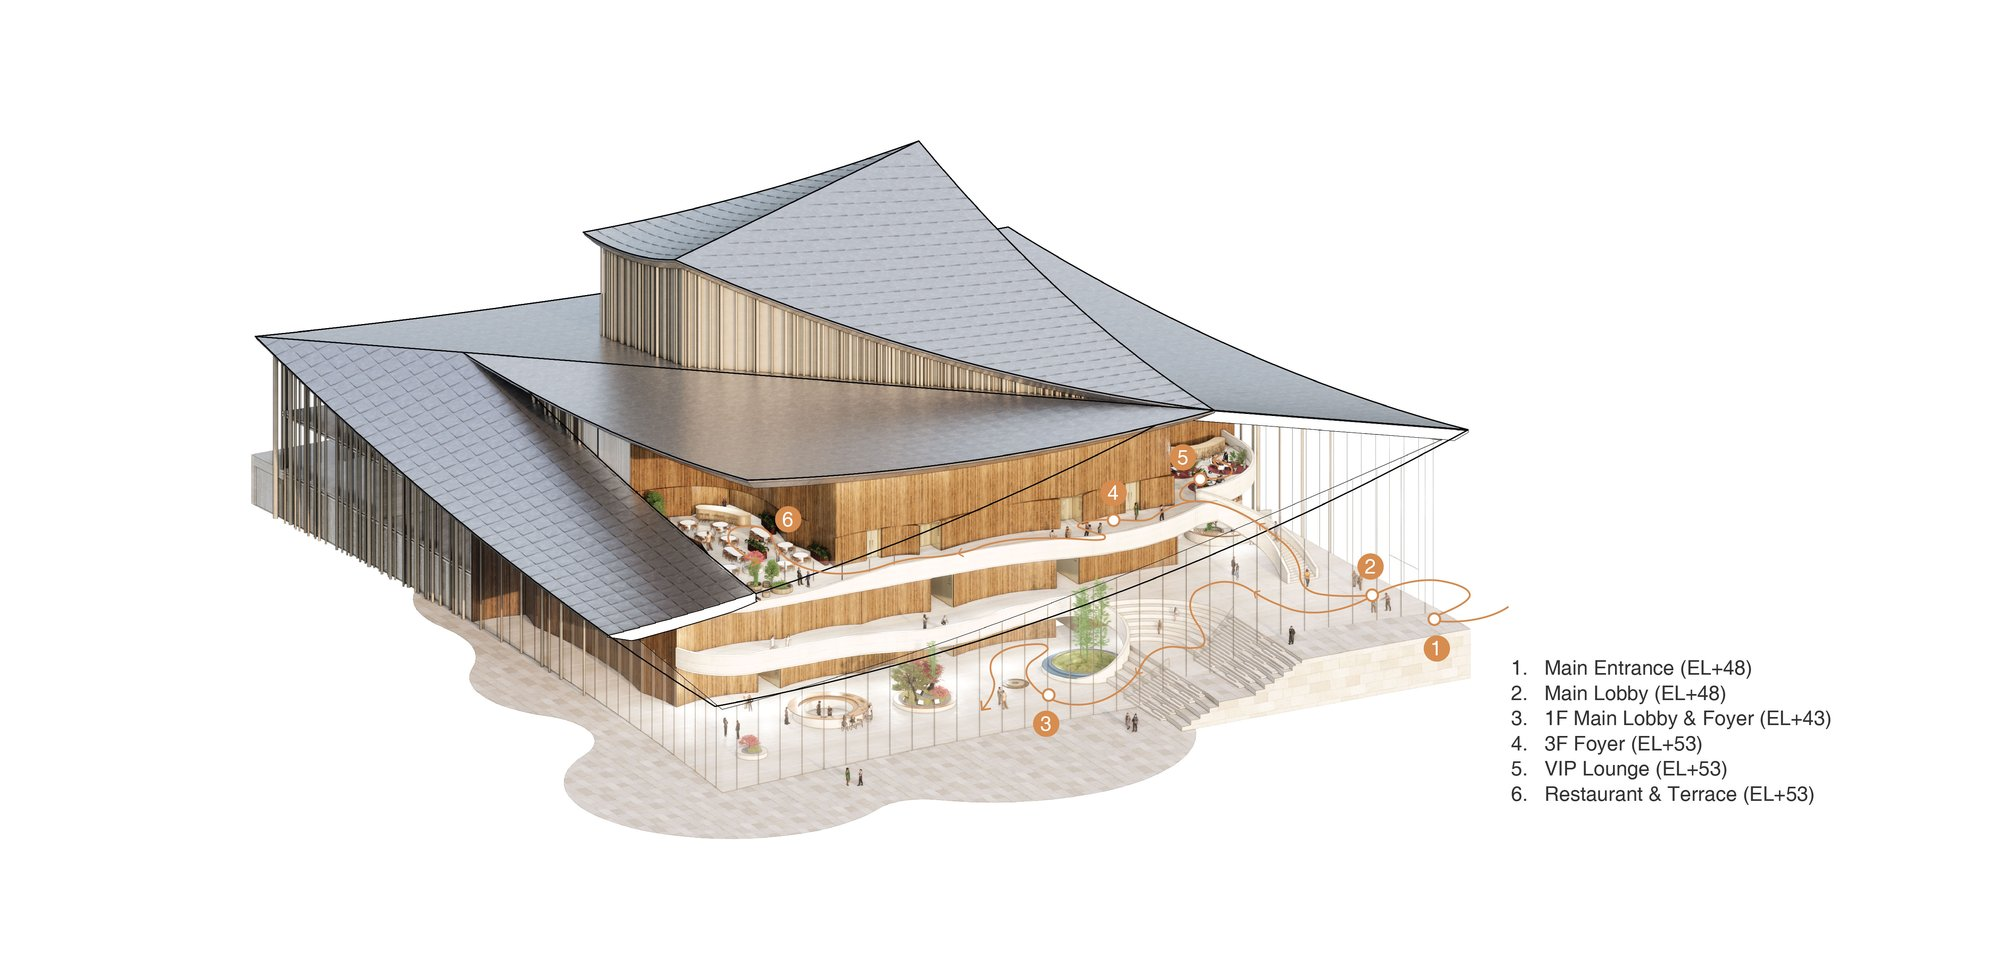
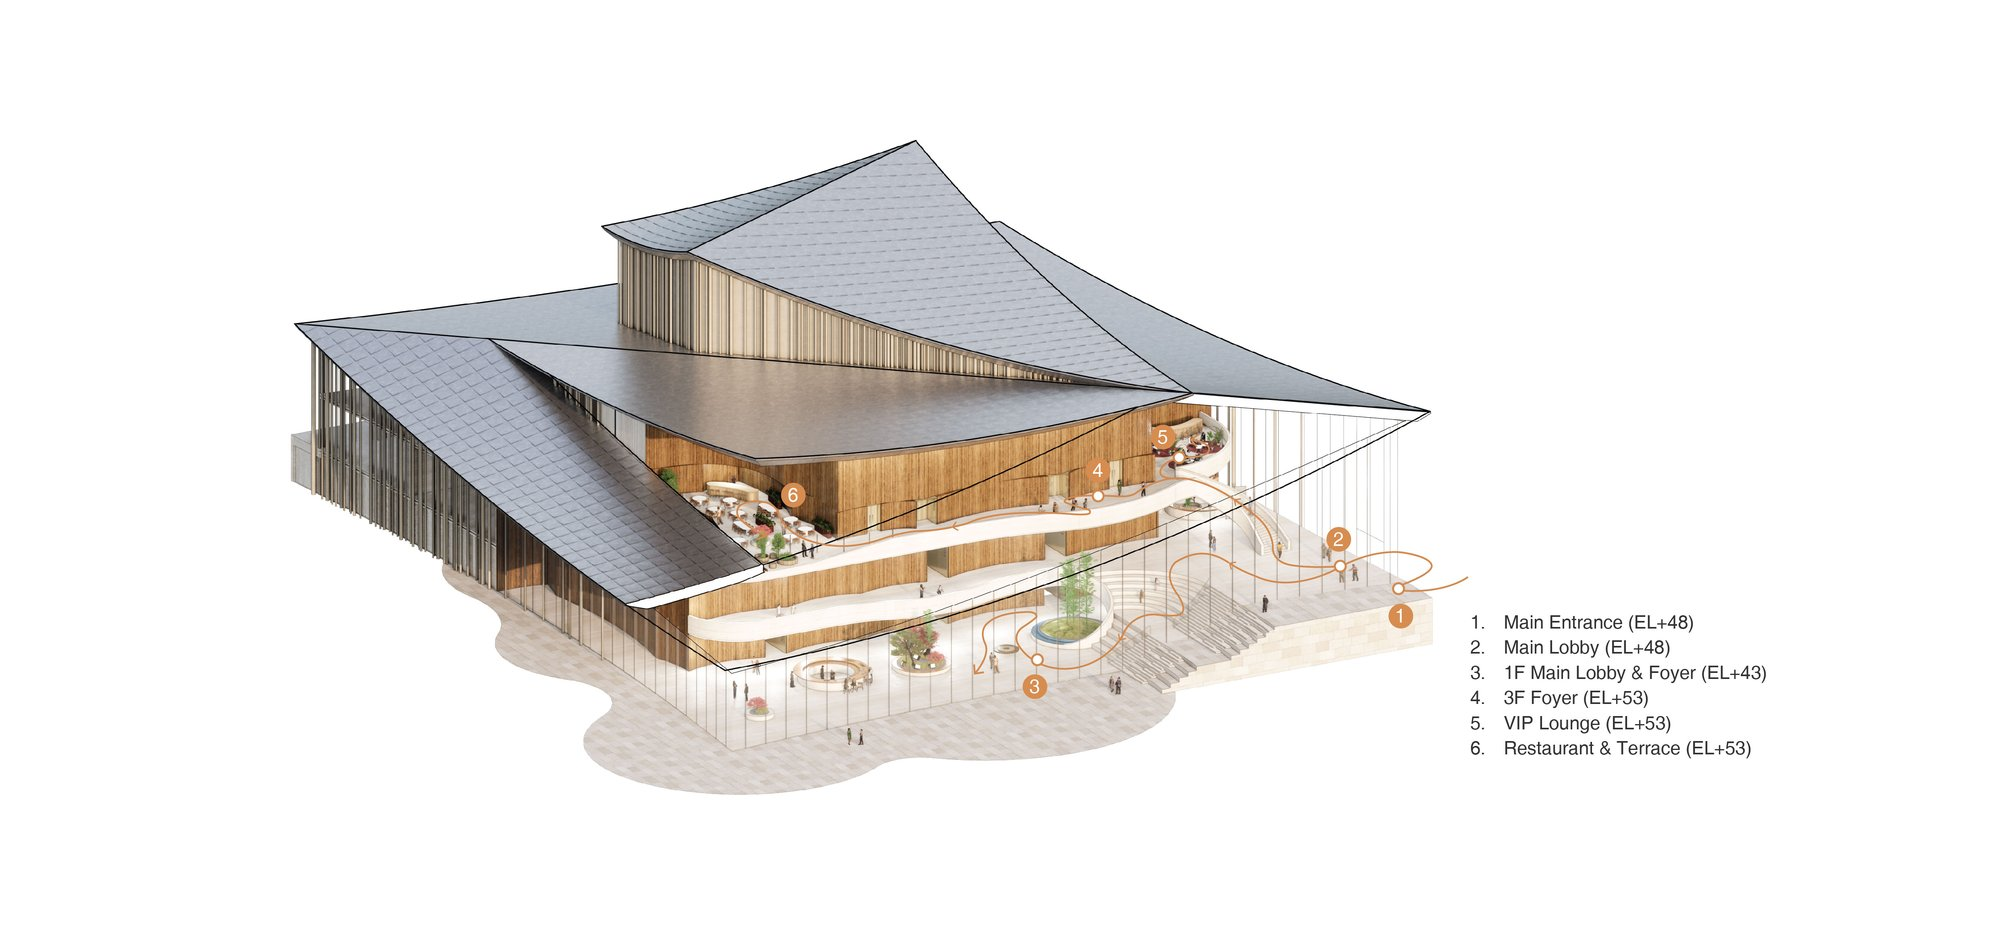
Update Chungnam lobby diagram and add renders
Claude-Session: https://claude.ai/code/session_01RbqegnYC3YMujDjtQTQuTm

Changed region(s): [[0.124, 0.1241, 0.93, 0.8374], [0.31, 0.8374, 0.434, 0.8684]]

diff --git a/index.html b/index.html
@@ -389,7 +389,10 @@
       images: [
         { name: "CNAC_02.JPG", src: "images/CNAC_02.jpg" },
         { name: "CNAC_03.JPG", src: "images/CNAC_03.jpg" },
-        { name: "CNAC_04.JPG", src: "images/CNAC_04.jpg" }
+        { name: "CNAC_04.JPG", src: "images/CNAC_04.jpg" },
+        { name: "CNAC_05.JPG", src: "images/CNAC_05.jpg" },
+        { name: "CNAC_06.JPG", src: "images/CNAC_06.jpg" },
+        { name: "CNAC_07.JPG", src: "images/CNAC_07.jpg" }
       ]
     },
     "Yuhan Corporation Remodeling": {
